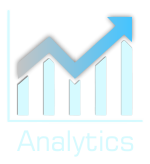
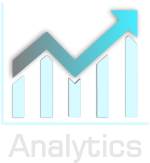
modified frontend

diff --git a/frontend/src/components/CreateForm.js b/frontend/src/components/CreateForm.js
@@ -6,7 +6,9 @@ import "../assets/app.css";
 export default function CreateForm() {
   const store = flightsStore();
 
-//   if (store.updateForm._id) 
+  if (store.createForm.currentPassengers > store.createForm.passengerLimit) {
+    window.alert("Passenger count must be equal to or less than: " + store.createForm.passengerLimit)
+  } 
 
   return (
         <>
@@ -16,7 +18,7 @@ export default function CreateForm() {
                     <input
                     className="inputform"
                     onChange={store.updateCreateFormField}
-                    value={store.createForm.title}
+                    value={store.createForm.flightNumber}
                     name="flightNumber"
                     placeholder="Flight Number"
                     />
@@ -24,7 +26,7 @@ export default function CreateForm() {
                     <input
                     className="inputform"
                     onChange={store.updateCreateFormField}
-                    value={store.createForm.title}
+                    value={store.createForm.passengerLimit}
                     name="passengerLimit"
                     placeholder="Passenger Limit"
                     />
@@ -32,7 +34,7 @@ export default function CreateForm() {
                     <input
                     className="inputform"
                     onChange={store.updateCreateFormField}
-                    value={store.createForm.title}
+                    value={store.createForm.currentPassengers}
                     name="currentPassengers"
                     placeholder="Curr Passengers"
                     />
@@ -40,7 +42,7 @@ export default function CreateForm() {
                     <input
                     className="inputform"
                     onChange={store.updateCreateFormField}
-                    value={store.createForm.title}
+                    value={store.createForm.arrivalAirport}
                     name="arrivalAirport"
                     placeholder="Arr Airport"
                     />
@@ -48,7 +50,7 @@ export default function CreateForm() {
                     <input
                     className="inputform"
                     onChange={store.updateCreateFormField}
-                    value={store.createForm.title}
+                    value={store.createForm.arrivalDate}
                     name="arrivalDate"
                     placeholder="Arr Date"
                     />
@@ -56,7 +58,7 @@ export default function CreateForm() {
                     <input
                     className="inputform"
                     onChange={store.updateCreateFormField}
-                    value={store.createForm.title}
+                    value={store.createForm.arrivalTime}
                     name="arrivalTime"
                     placeholder="Arr Time"
                     />
@@ -64,7 +66,7 @@ export default function CreateForm() {
                     <input
                     className="inputform"
                     onChange={store.updateCreateFormField}
-                    value={store.createForm.title}
+                    value={store.createForm.departureAirport}
                     name="departureAirport"
                     placeholder="Dep Airport"
                     />
@@ -72,7 +74,7 @@ export default function CreateForm() {
                     <input
                     className="inputform"
                     onChange={store.updateCreateFormField}
-                    value={store.createForm.title}
+                    value={store.createForm.departureDate}
                     name="departureDate"
                     placeholder="Dep Date"
                     />
@@ -80,7 +82,7 @@ export default function CreateForm() {
                     <input
                     className="inputform"
                     onChange={store.updateCreateFormField}
-                    value={store.createForm.title}
+                    value={store.createForm.departureTime}
                     name="departureTime"
                     placeholder="Dep Time"
                     />

diff --git a/frontend/src/assets/app.css b/frontend/src/assets/app.css
@@ -36,6 +36,7 @@ nav {
     font-size: 14px;
     margin-right: 19px;
 
+
 }
 
 .nav--icon {
@@ -65,18 +66,18 @@ nav {
     }
   }
 
-
 .analyticsicon{
-    max-height: 60px;
-    max-width: 60px;
-    margin-left: 760px;
+    float: right;
+    max-height: 50px;
+    max-width: 50px;
     margin-top: -15px;
     cursor: pointer;
+    box-shadow: 0px 1px 1px 0 rgba(28, 28, 28, 0.5);
+    
 }
 .analyticsicon:hover {
-    opacity: .5;
+    opacity: .75;
   }
-
 
 .wrapper{
     margin-top: 0px;
@@ -126,6 +127,7 @@ nav {
 }
 .add-flight-button{
     padding: 15px;
+    
 }
 .sidebar-second{ 
     margin: 25px;
@@ -167,6 +169,7 @@ nav {
     margin-left: 4px;
     margin-top: -15px;
     margin-bottom: 10px;
+    
 }
 
 .content-title {

diff --git a/frontend/src/components/UpdateForm.js b/frontend/src/components/UpdateForm.js
@@ -3,7 +3,9 @@ import flightsStore from "../stores/flightsStore";
 export default function UpdateForm() {
   const store = flightsStore();
 
-  // if (!store.updateForm._id) return <></>;
+  if (store.updateForm.currentPassengers > store.updateForm.passengerLimit) {
+    window.alert("Passenger count must be equal to or less than: " + store.updateForm.passengerLimit)
+  } 
 
   return (
           <>
